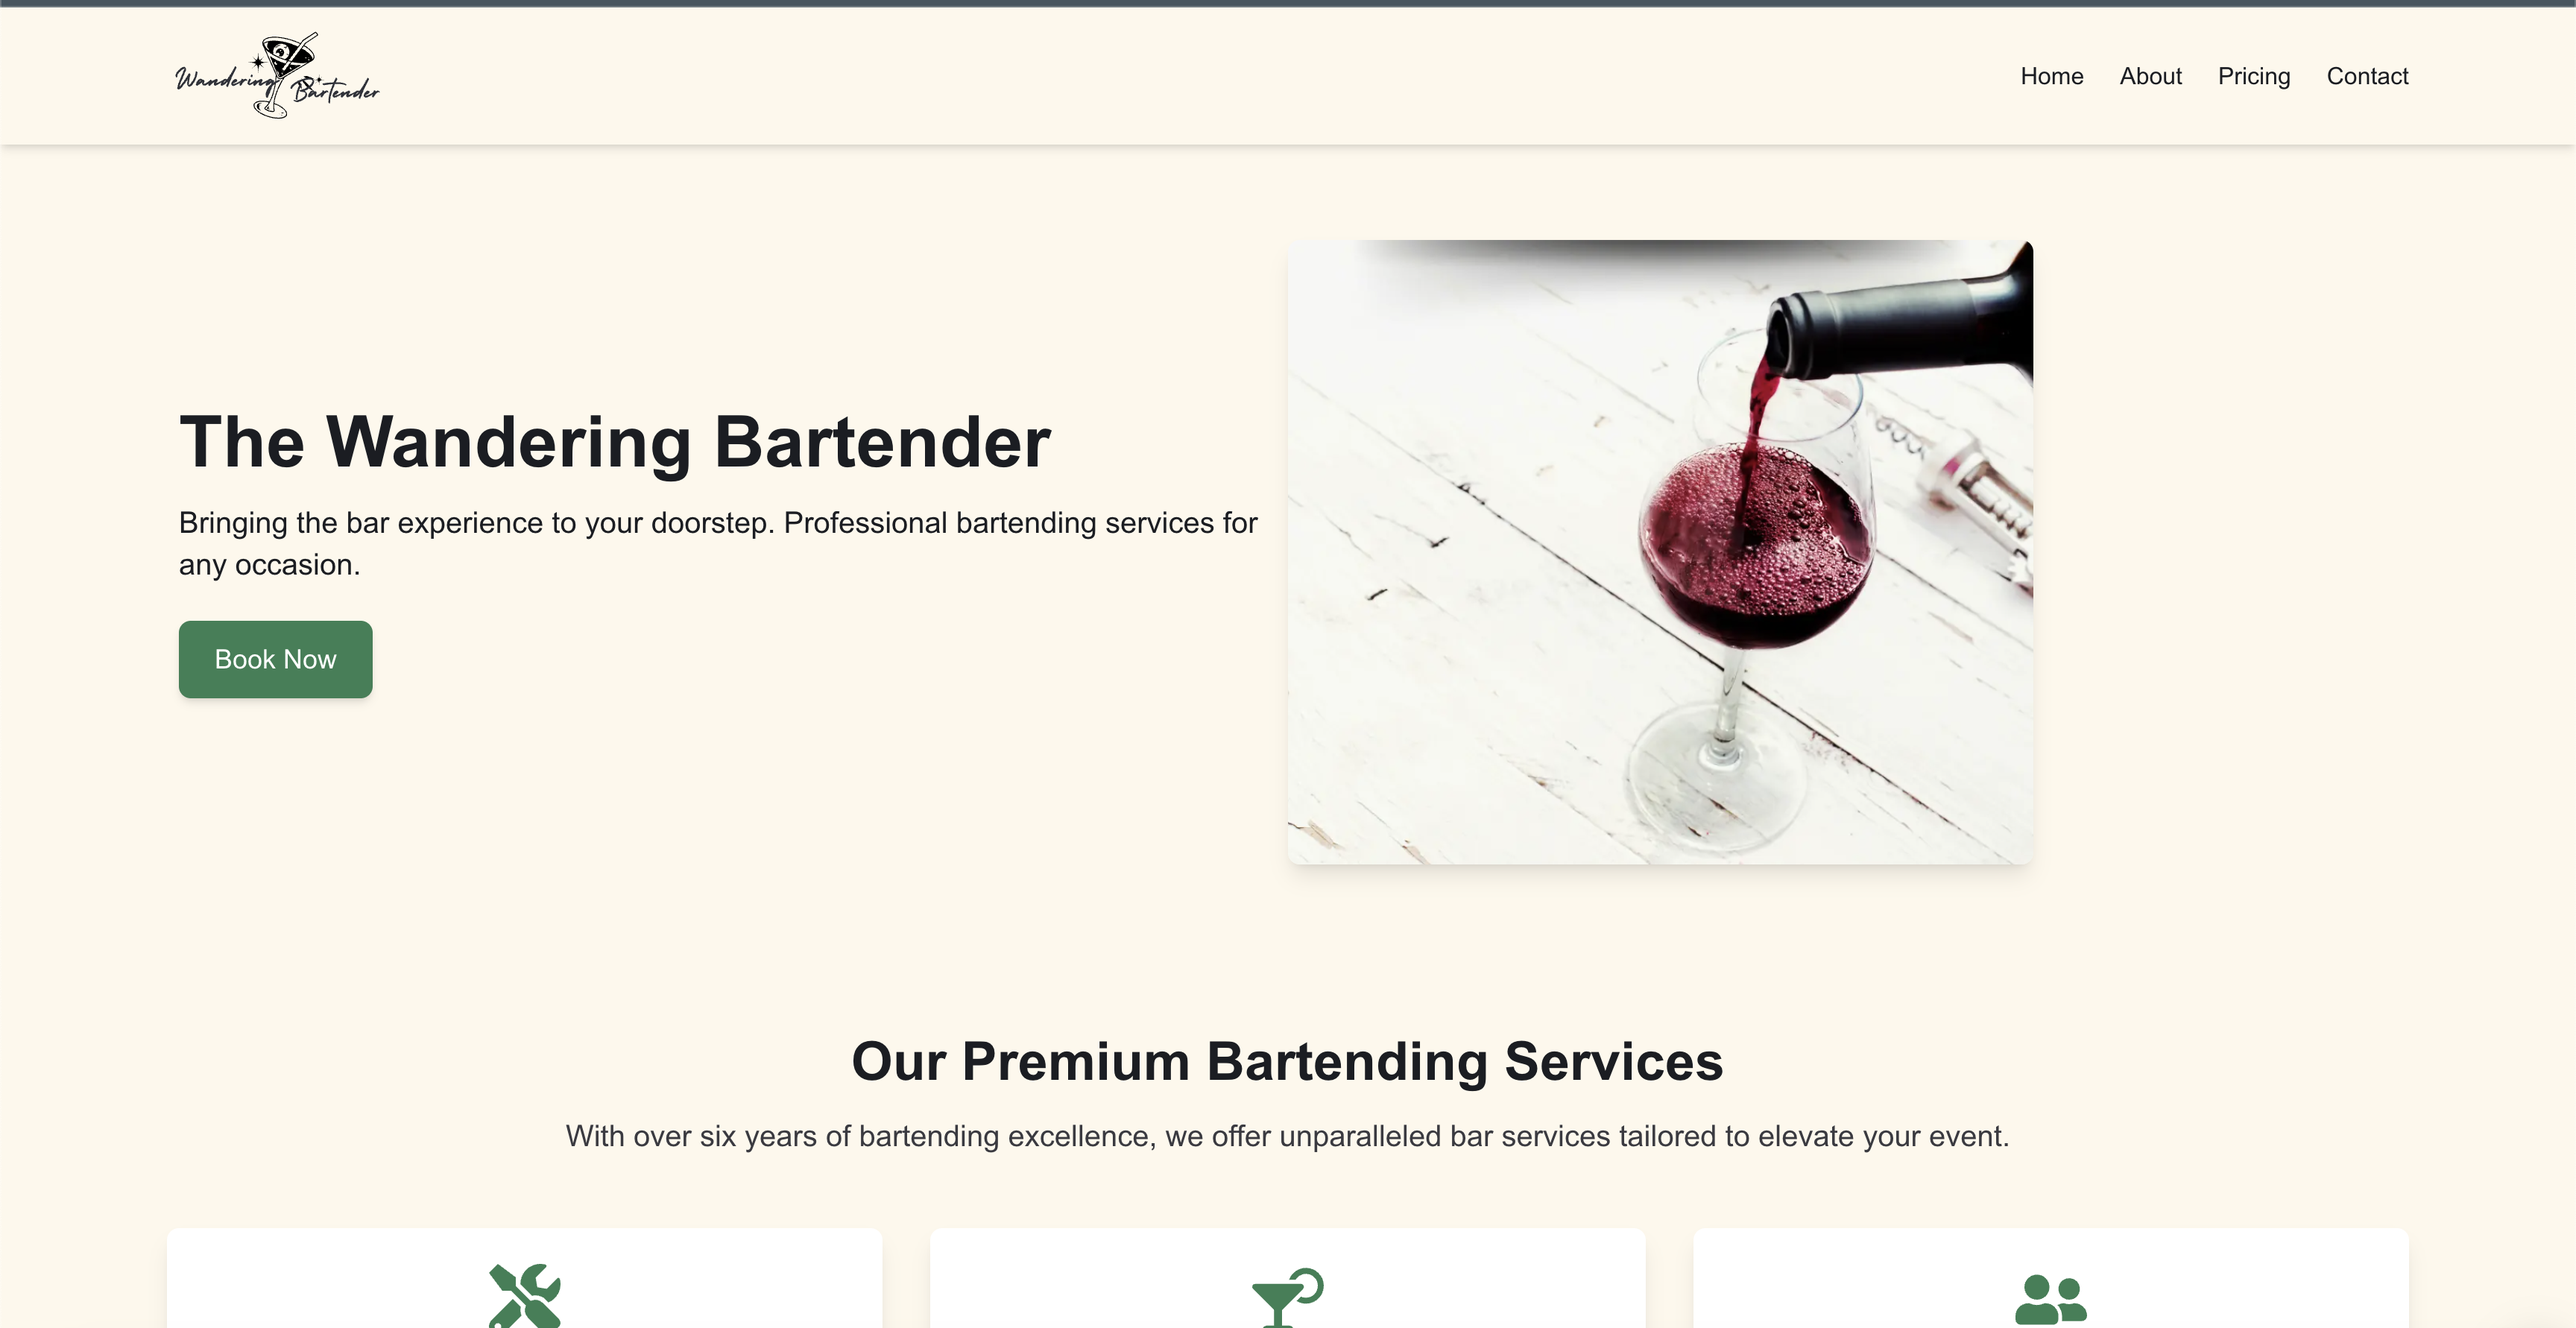
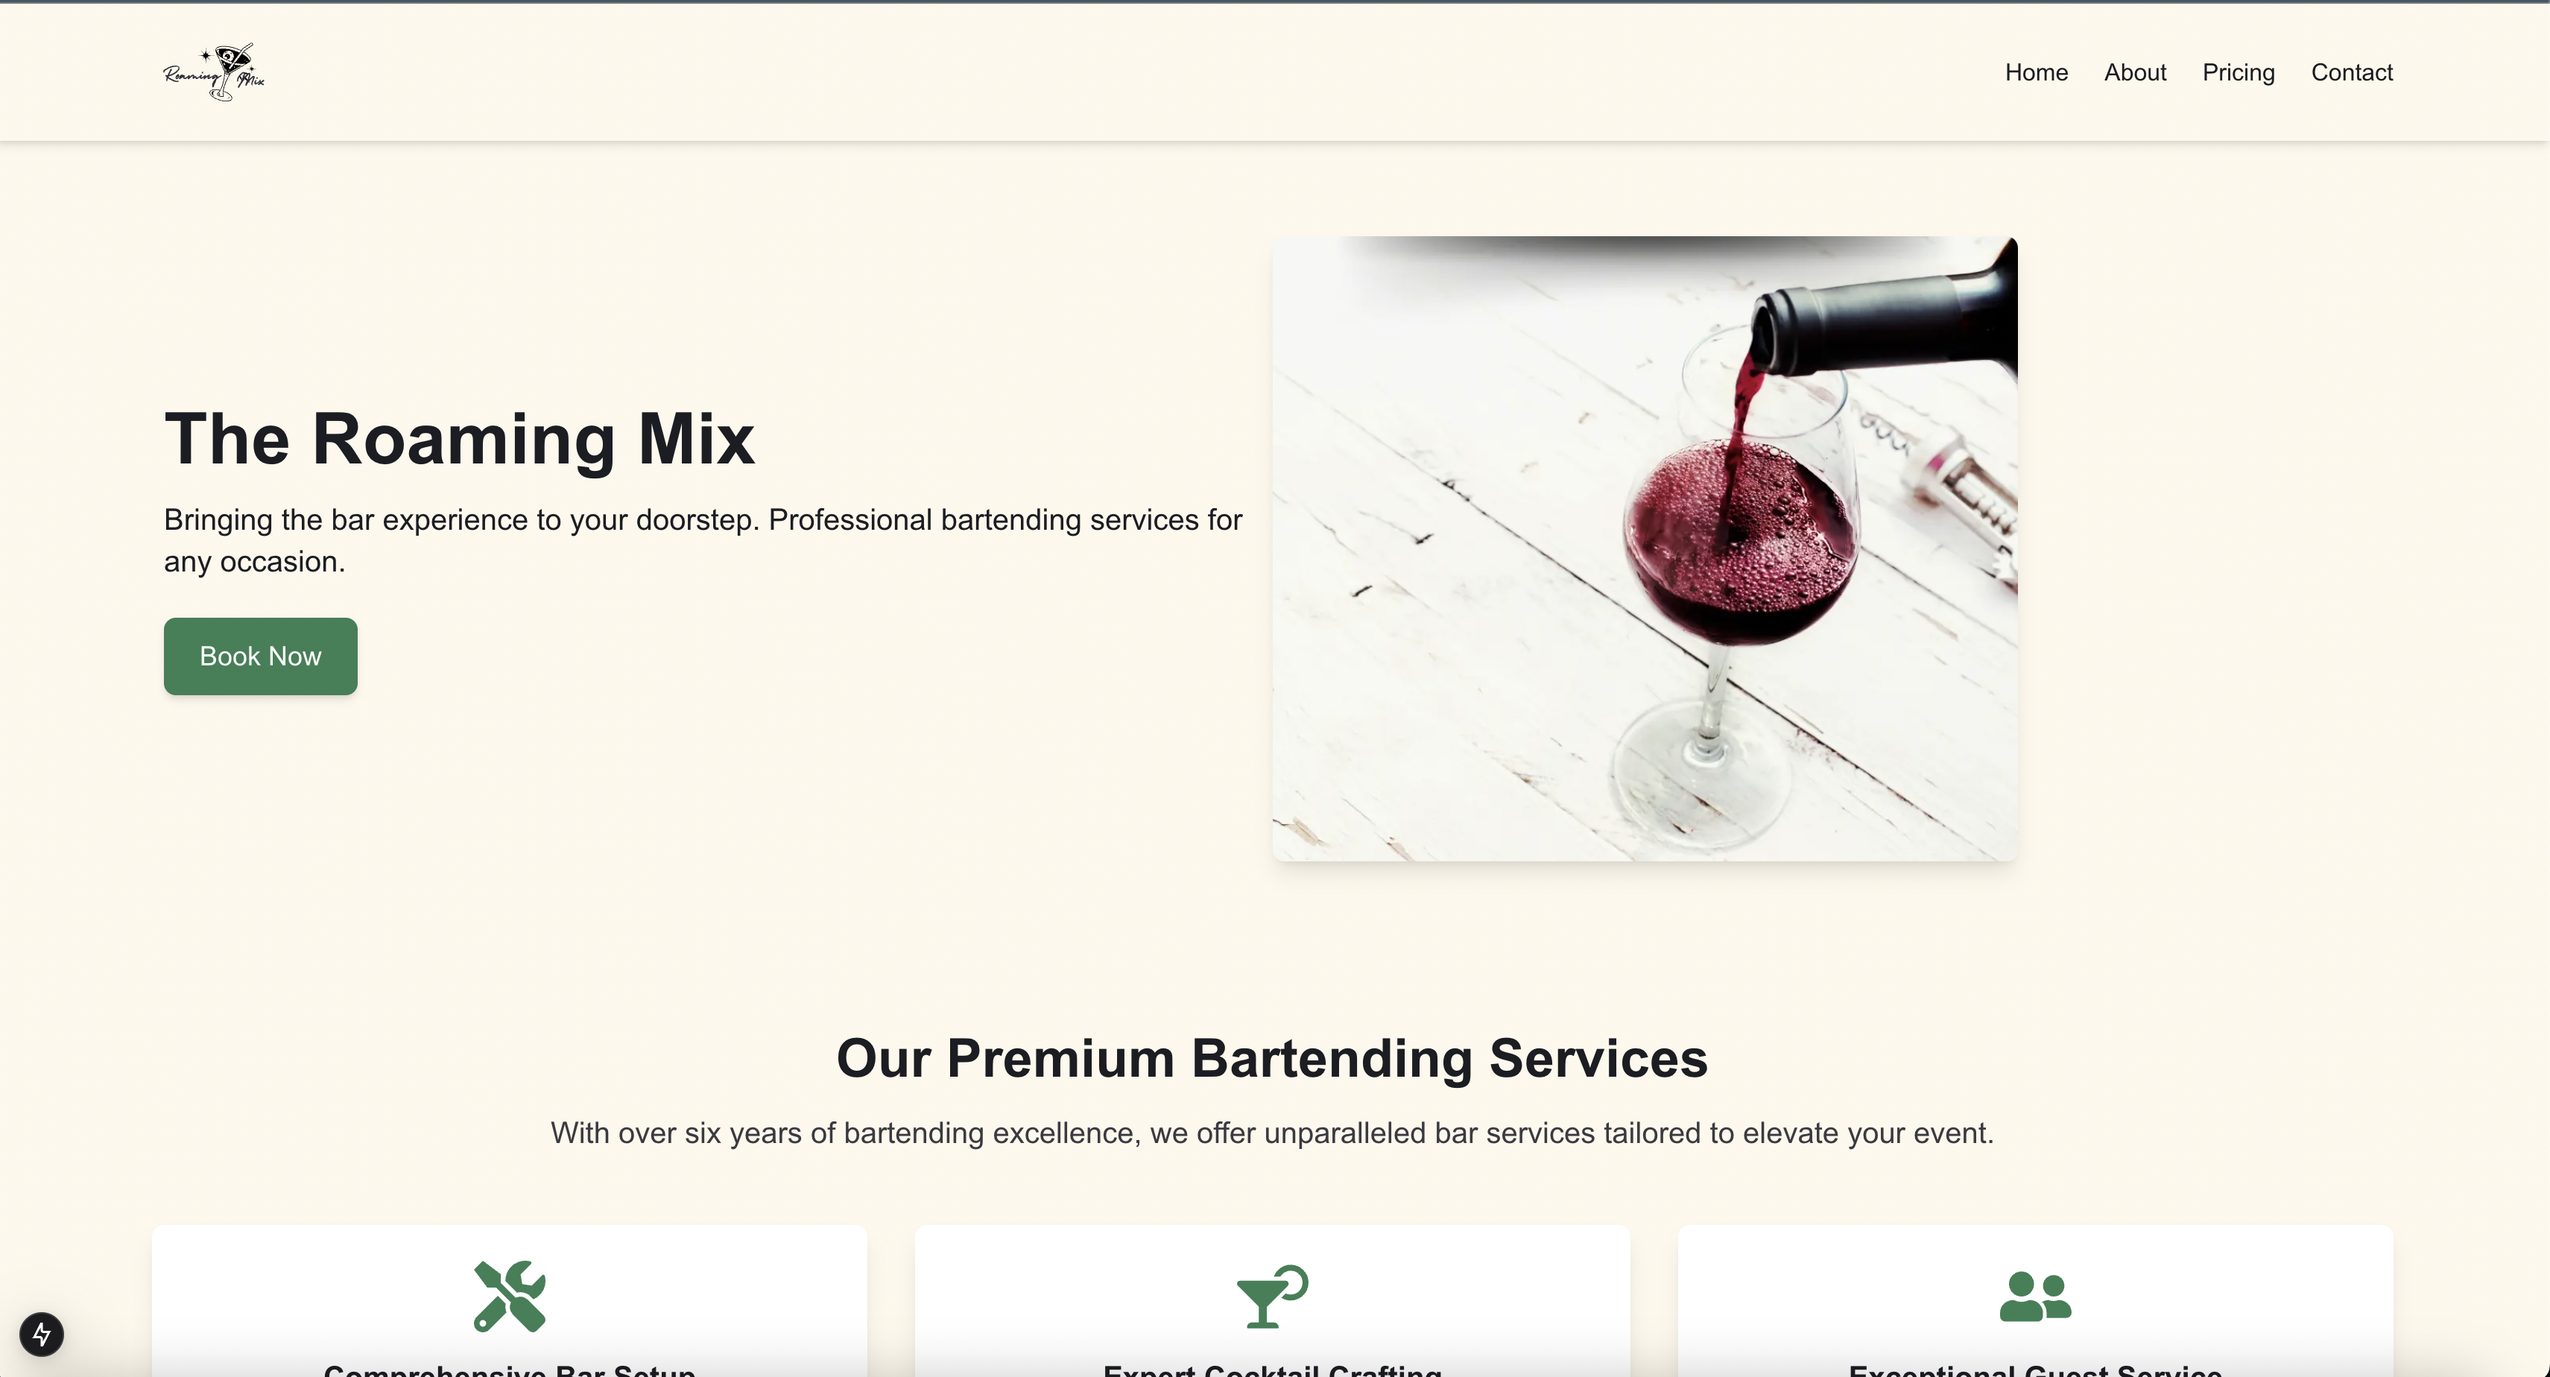
changed name

diff --git a/app/layout.tsx b/app/layout.tsx
@@ -15,7 +15,7 @@ const geistMono = Geist_Mono({
 });
 
 export const metadata: Metadata = {
-  title: "The Wandering Bartender",
+  title: "The Roaming Mix",
   description: "Professional mobile bartending services for any occasion.",
   keywords: [
     "mobile bartending",
@@ -26,18 +26,18 @@ export const metadata: Metadata = {
     "wandering bartender",
     "Boston bartending services",
   ],
-  authors: [{ name: "The Wandering Bartender", url: "https://wanderingbartender.com" }],
+  authors: [{ name: "The Roaming Mix", url: "https://roamingmix.com" }],
   creator: "The Wandering Bartender",
   publisher: "The Wandering Bartender",
-  metadataBase: new URL("https://wanderingbartender.com"),
+  metadataBase: new URL("https://roamingmix.com"),
   alternates: {
-    canonical: "https://wanderingbartender.com",
+    canonical: "https://roamingmix.com",
   },
   openGraph: {
     title: "The Wandering Bartender",
     description: "Bringing the bar experience to your doorstep with professional bartending services for any occasion.",
-    url: "https://wanderingbartender.com",
-    siteName: "The Wandering Bartender",
+    url: "https://roamingmix.com",
+    siteName: "The Roaming Mix",
     locale: "en_US",
     type: "website",
   },
@@ -71,18 +71,18 @@ export default function RootLayout({
               "@type": "LocalBusiness",
               "name": "The Wandering Bartender",
               "description": "Professional mobile bartending services for any occasion.",
-              "url": "https://wanderingbartender.com",
-              "logo": "https://wanderingbartender.com/favicon.ico",
+              "url": "https://roamingmix.com",
+              "logo": "https://roamingmix.com/favicon.ico",
               "sameAs": [
                 "https://www.facebook.com/profile.php?id=61572162751853",
-                "https://www.instagram.com/wanderingbartender_/"
+                "https://www.instagram.com/roamingmix/"
               ],
               "contactPoint": {
                 "@type": "ContactPoint",
                 "contactType": "Customer Service",
                 "email": "antonio_kodheli@icloud.com"
               },
-              "image": "https://wanderingbartender.com/images/og-image.jpg",
+              "image": "https://roamingmix.com/images/og-image.jpg",
               "address": {
                 "@type": "PostalAddress",
                 "addressLocality": "Boston",

diff --git a/app/about/page.tsx b/app/about/page.tsx
@@ -7,17 +7,17 @@ export default function About() {
     <div className="min-h-screen py-12 px-6">
         <Head>
         <title>About Us</title>
-        <meta name="title" content="About Us | The Wandering Bartender"/>
-        <meta property="og:title" content="About Us | The Wandering Bartender"/>
-        <meta name="description" content="Learn about the Wandering Bartender's mission, our team of professional mixologists, and our commitment to delivering exceptional mobile bartending services for every event"/>
+        <meta name="title" content="About Us | The Roaming Mix"/>
+        <meta property="og:title" content="About Us | The Roaming Mix"/>
+        <meta name="description" content="Learn about The Roaming Mix's mission, our team of professional mixologists, and our commitment to delivering exceptional mobile bartending services for every event"/>
         <meta property="og:description" content="Learn about the Wandering Bartender's mission, our team of professional mixologists, and our commitment to delivering exceptional mobile bartending services for every event"/>
-        <meta name="keywords" content="about the wandering bartender, our story, mobile bartending services, professional bartenders, event bartending, mixologists, cocktails, bar setup, guest service"/>
+        <meta name="keywords" content="about the roaming mix, our story, mobile bartending services, professional bartenders, event bartending, mixologists, cocktails, bar setup, guest service"/>
         </Head>
       <div className="max-w-4xl mx-auto">
         <h1 className="text-5xl font-extrabold text-gray-800 mb-8 text-center">About Us</h1>
         <Card className="mb-6">
           <CardHeader>
-            <CardTitle>Welcome to The Wandering Bartender</CardTitle>
+            <CardTitle>Welcome to The Roaming Mix</CardTitle>
             <CardDescription>
               Bringing the bar experience to your doorstep. Professional bartending services for any occasion.
             </CardDescription>

diff --git a/app/page.tsx b/app/page.tsx
@@ -9,11 +9,11 @@ export default function Home() {
   return (
       <>
       <Head>
-          <title>The Wandering Bartender | Premium Mobile Bartending Services for Events</title>
-          <meta name="description" content="The Wandering Bartender offers professional mobile bartending service for weddings, corporate events, and private parties. Elevate your event with custom cocktails and exceptional service"/>
+          <title>The Roaming Mix| Premium Mobile Bartending Services for Events</title>
+          <meta name="description" content="The Roaming Mix offers professional mobile bartending service for weddings, corporate events, and private parties. Elevate your event with custom cocktails and exceptional service"/>
           <meta name="keyowrds" content="alba restaurant, alba, quincy, massachusetts, bartender, mobile bartening services, professional bartenders, custom cocktails, event bartending, wedding bartending, corporate event, private party bartending, boston, drinks, bars, local bar"/>
-          <meta property="og:title" content="The Wandering Bartender | Premium Mobile Bartending Services for Events"/>
-          <meta property="og:description" content="The Wandering Bartender offers professional mobile bartending service for weddings, corporate events, and private parties. Elevate your event with custom cocktails and exceptional service"/>
+          <meta property="og:title" content="The Roaming Mix | Premium Mobile Bartending Services for Events"/>
+          <meta property="og:description" content="The Roaming Mix offers professional mobile bartending service for weddings, corporate events, and private parties. Elevate your event with custom cocktails and exceptional service"/>
           <meta property="og:url" content="https://wanderingbartender.com"/>
           <meta property="og:type" content="website"/>
           

diff --git a/components/Footer.tsx b/components/Footer.tsx
@@ -10,7 +10,7 @@ export default function Footer() {
           {/* Logo and Description */}
           <div className="text-center md:text-left mb-4 md:mb-0">
             <Link href="/" className="text-2xl font-bold">
-              The Wandering Bartender
+              The Roaming Mix
             </Link>
             <p className="mt-2 text-gray-400">
               Elevating events with exceptional bartending services.
@@ -68,7 +68,7 @@ Privacy Policy
           </ul>
           {/* Copyright */}
           <p className="text-gray-500 text-sm text-center md:text-right">
-            &copy; {new Date().getFullYear()} The Wandering Bartender. All rights reserved.
+            &copy; {new Date().getFullYear()} The Roaming Mix. All rights reserved.
           </p>
         </div>
       </div>

diff --git a/components/CallToAction.tsx b/components/CallToAction.tsx
@@ -7,7 +7,7 @@ export default function CallToAction() {
         <div className="container mx-auto px-4 relative text-center text-gray-900">
           <h2 className="text-4xl font-bold mb-4">Let’s Raise the Bar for Your Next Event!</h2>
           <p className="text-lg mb-8">
-            Experience the art of exceptional bartending with The Wandering Bartender. Let us craft unforgettable moments, one cocktail at a time.
+            Experience the art of exceptional bartending with The Roaming Mix. Let us craft unforgettable moments, one cocktail at a time.
           </p>
           <div className="flex flex-col sm:flex-row justify-center space-y-4 sm:space-y-0 sm:space-x-4">
             <Link

diff --git a/components/HeroSection.tsx b/components/HeroSection.tsx
@@ -9,7 +9,7 @@ export default function HeroSection() {
     <div className="container mx-auto flex flex-col items-center justify-center px-6 text-center md:flex-row md:text-left">
       <div className="md:w-1/2">
         <h1 className="text-4xl font-bold leading-tight md:text-5xl">
-          The Wandering Bartender
+          The Roaming Mix
         </h1>
         <p className="mt-4 text-lg md:text-xl">
           Bringing the bar experience to your doorstep. Professional

diff --git a/app/api/new-email/route.ts b/app/api/new-email/route.ts
@@ -13,7 +13,7 @@ export async function POST(req: NextRequest) {
 
     try {
         const {data, error} = await resend.emails.send({
-            from: 'The Wandering Bartender <info@wanderingbartender.com>',
+            from: 'The Roaming Mix <info@wanderingbartender.com>',
             to: `${email}`,
             subject: `${subject}`,
             text: `${message}`,
